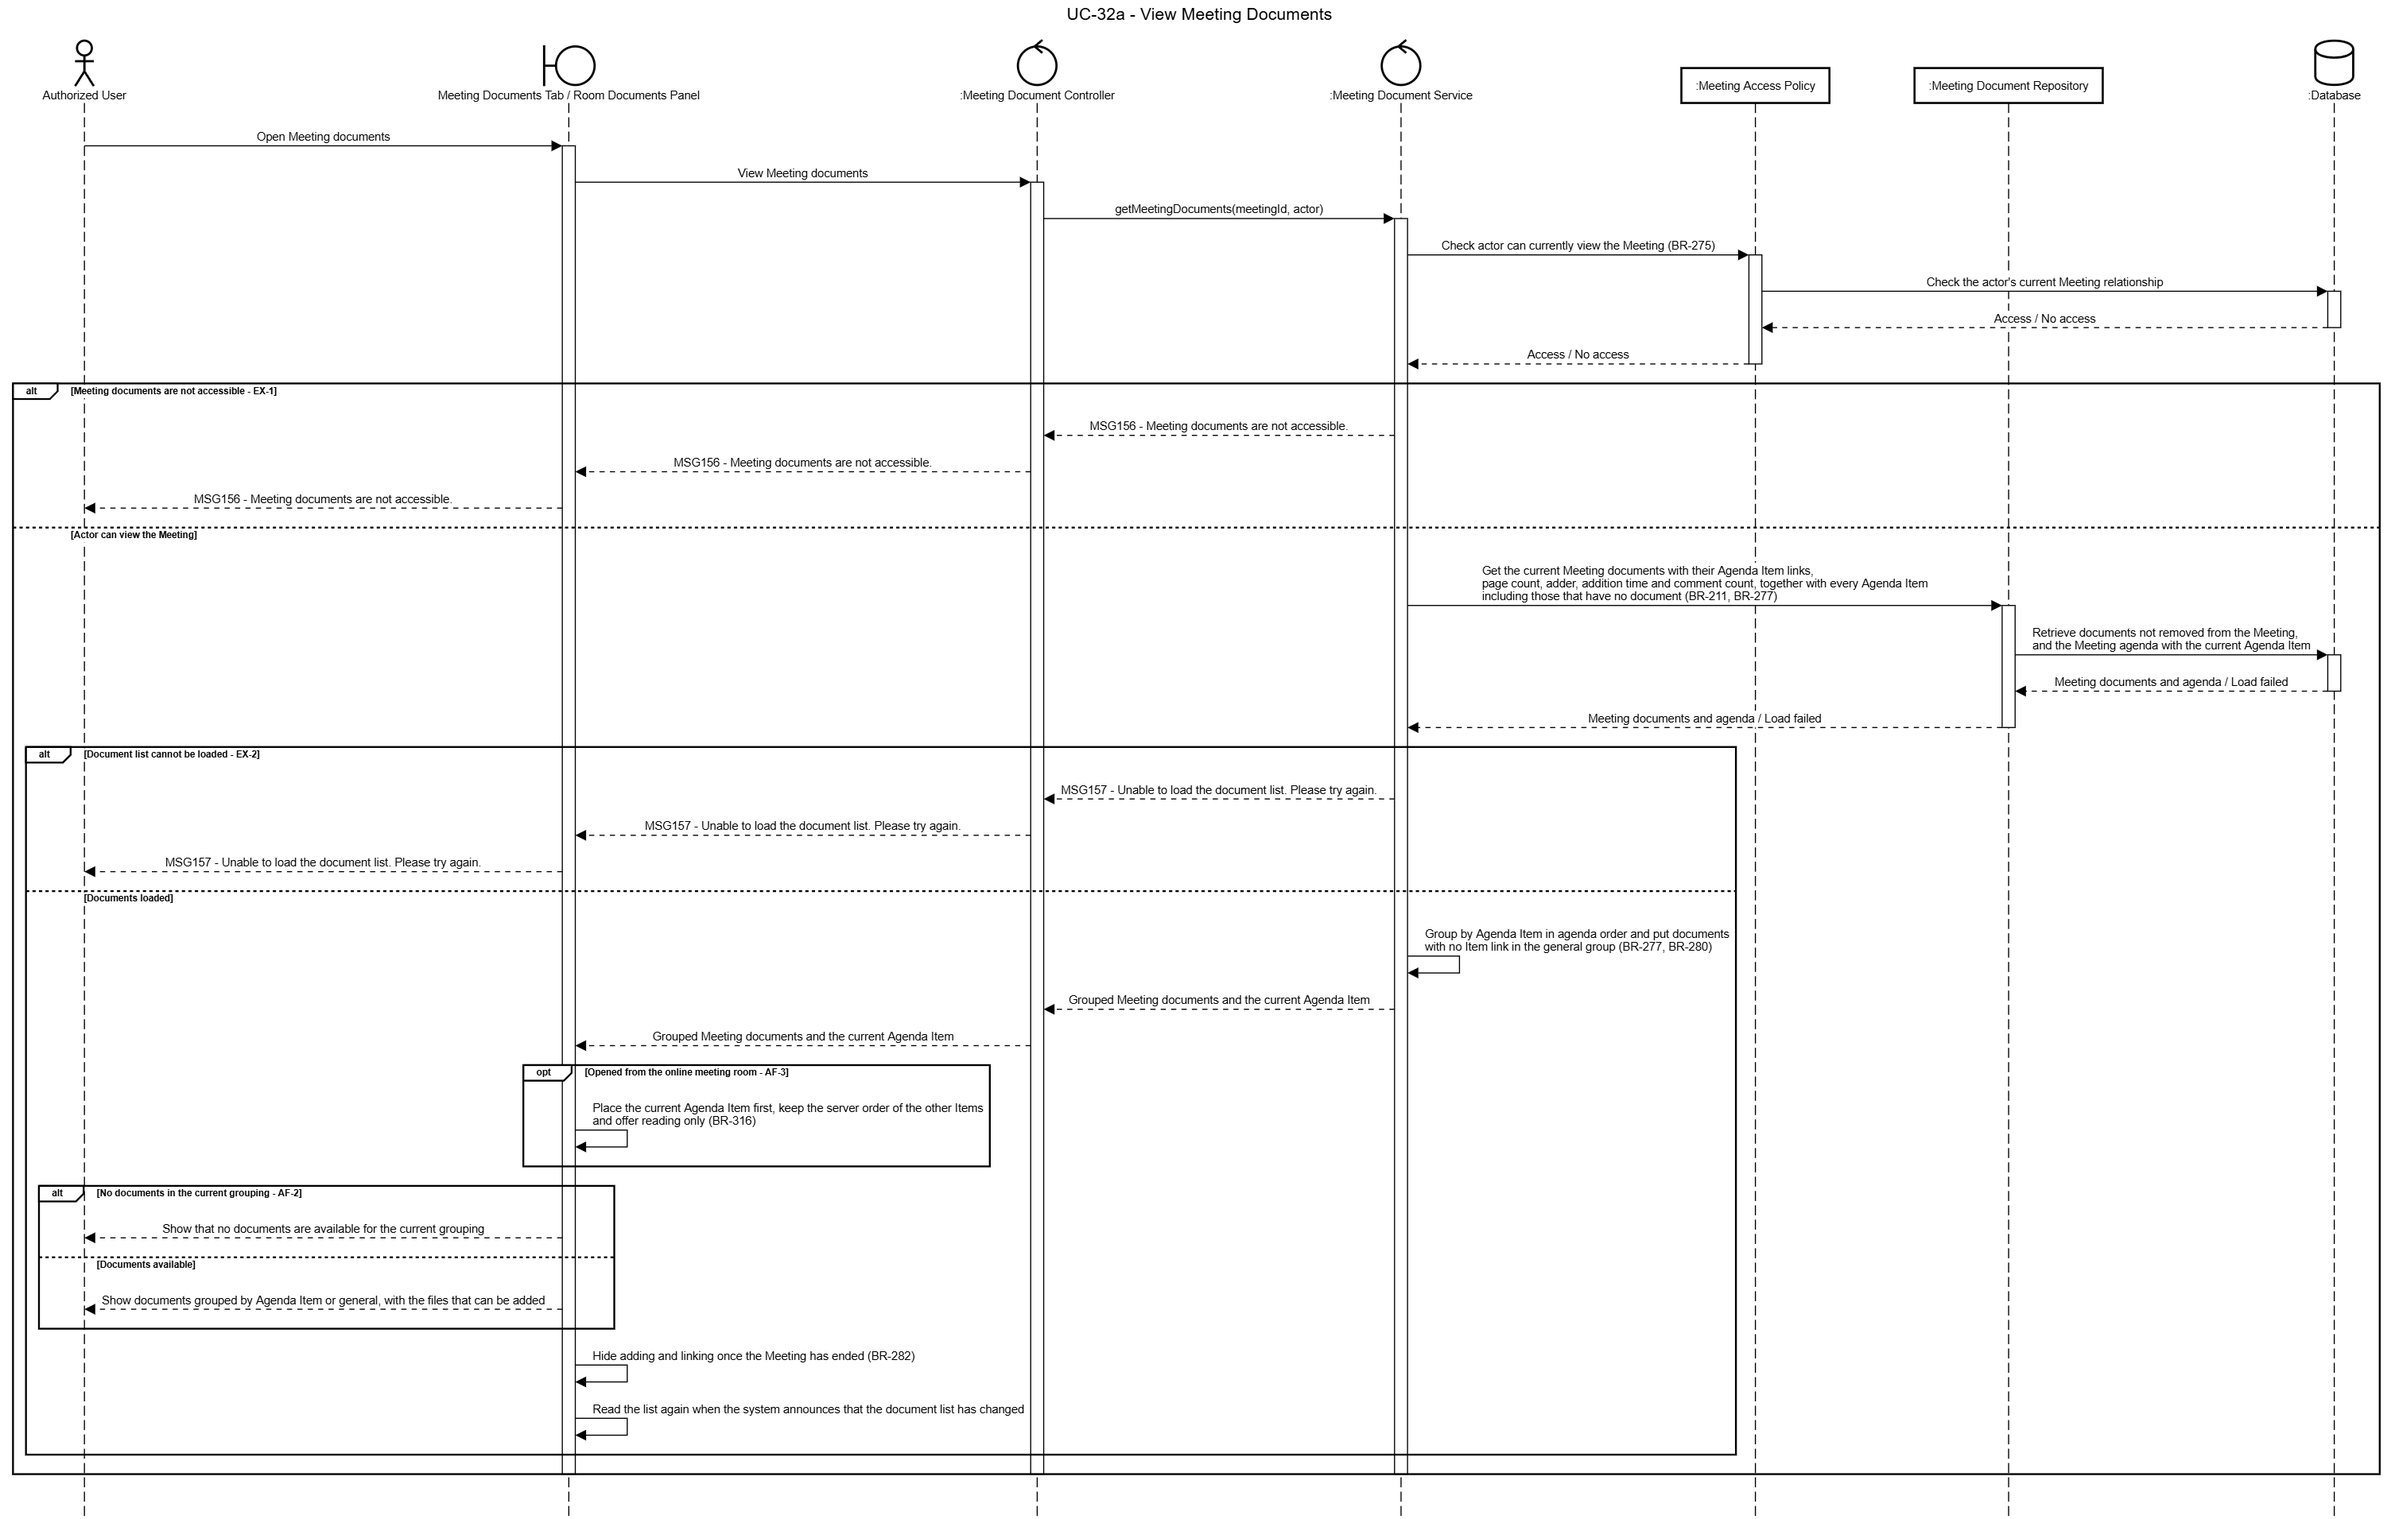
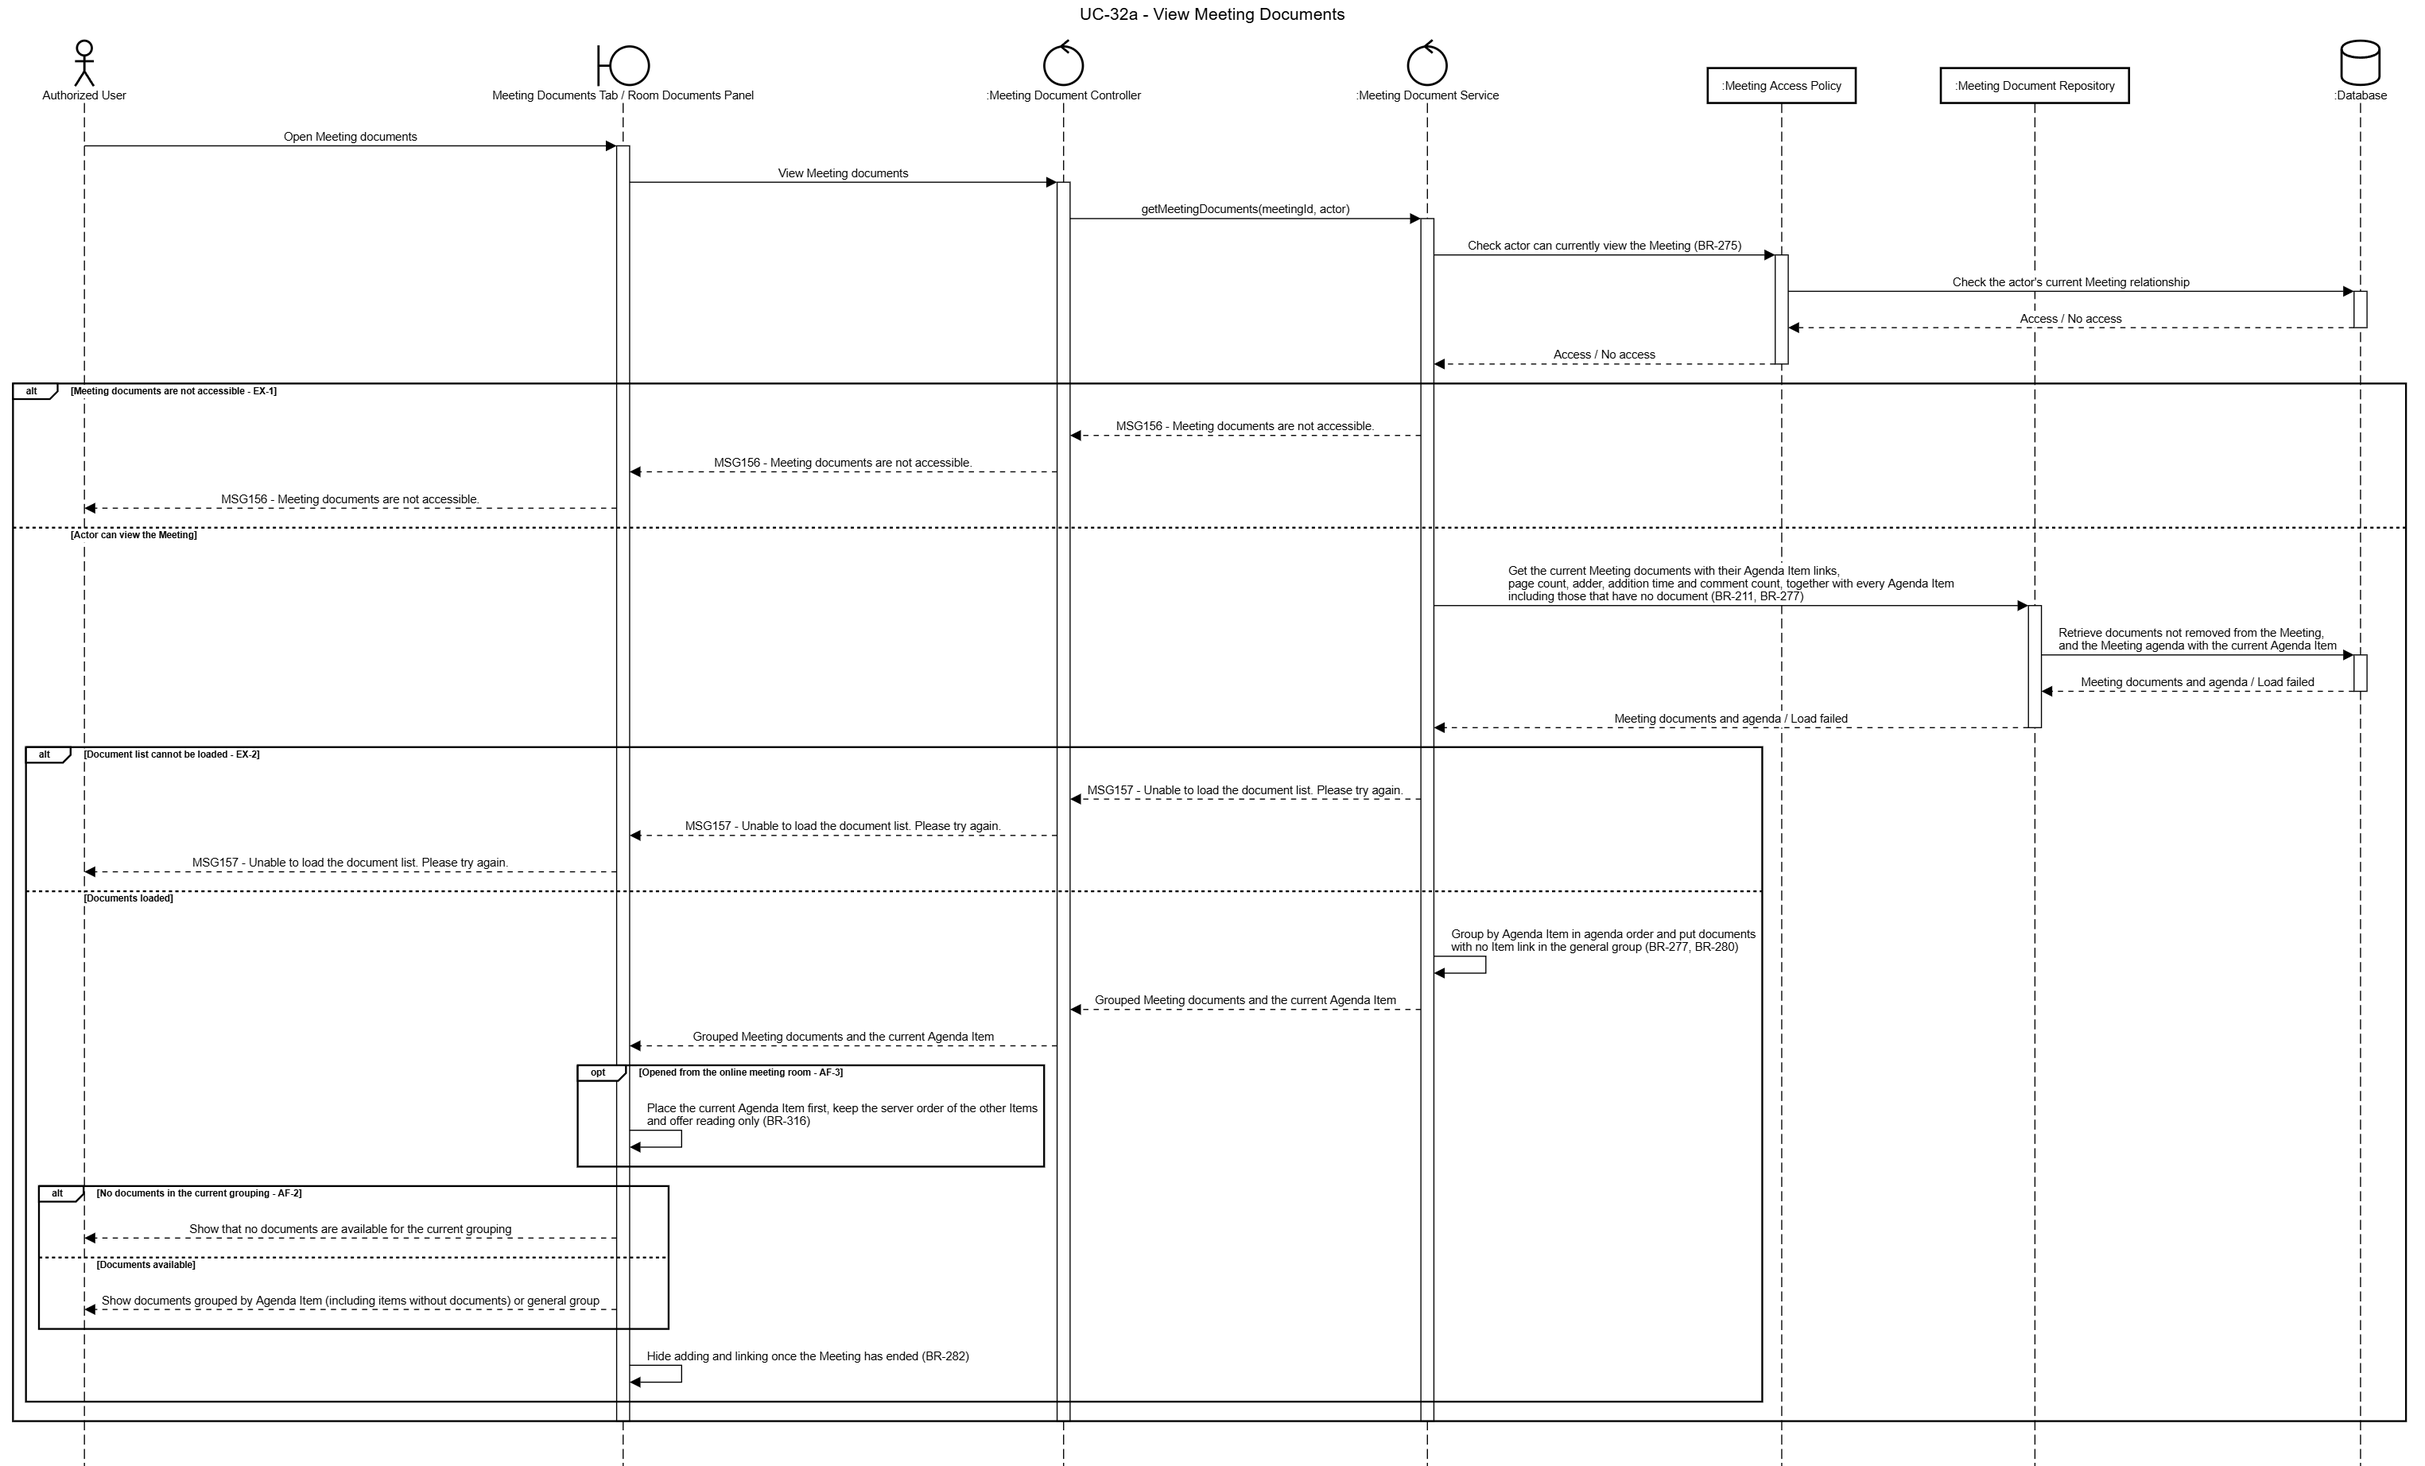
[Docs]: SCRUM-107, SCRUM-21 – sửa theo review: UC-33a tách mỗi mã thông báo một nhánh kèm đủ câu chữ, bỏ sự kiện danh sách đã đổi khỏi sequence UC-33a/UC-32a (README §10), số trang PDF do trình duyệt gửi; README class diagram bỏ câu về lớp không có; note FE-07 ghi FolderRepository đã bỏ

diff --git a/docs/06-sequencediagram/document-management/README.md b/docs/06-sequencediagram/document-management/README.md
@@ -25,7 +25,7 @@ thêm vào cùng UC sau. **Cập nhật 27/10/2026 theo code**: kiểm quyền v
 kích thước khai báo trước khi đọc thân request (EX-8), đọc request rồi kiểm một lượt (đúng một tệp trở lên, ≤ 10 tệp và ≤ 200 MB,
 từng tệp có tên dùng được, đuôi khớp nội dung và ≤ 50 MB — EX-3/EX-8), ghi dòng tệp lưu trữ trước khi đẩy byte,
 đẩy byte lên kho, rồi tìm/tạo thư mục và ghi tài liệu trong **một** transaction có khoá cuộc họp. Trình duyệt gửi kèm số trang của
-từng PDF (`pageCounts`); sau khi lưu xong máy chủ báo "danh sách tài liệu đã đổi" cho người trong cuộc họp (tối đa 2 giây, không chờ).
+từng PDF (`pageCounts`); sau khi lưu xong máy chủ thông báo danh sách tài liệu đã đổi cho người trong cuộc họp qua SignalR (theo §10 README chung, sự kiện SignalR không vẽ vào sequence diagram).
 `:File Storage` là kho đối tượng R2 ([ADR-0024](../../05-decisions/0024-luu-file-tai-lieu-tren-cloudflare-r2.md));
 lỗi ở bước nào thì xoá các tệp đã đẩy để giữ "tất cả hoặc không" (BR-286). Job dọn tệp mồ côi (BR-213) là job nền nên không vẽ
 sequence, theo §10 của [README chung](../README.md).
@@ -33,7 +33,7 @@ sequence, theo §10 của [README chung](../README.md).
 **Tab trong file draw.io gộp chưa cập nhật (27/10/2026).** Ba tab `uc32a_viewmeetingdocuments`,
 `uc32c_previewmeetingdocument`, `uc33a_uploaddocumentstomeeting` vẫn là bản 22–23/10/2026 (dựng bằng bộ chuyển Mermaid của
 draw.io), khác bản as-built ở trên; ảnh trong `drawio-png/` cũng theo bản cũ. Bản đúng của đợt này là `.txt` và `.png` trong
-thư mục này. Dựng lại tab cần chuyển tay từng khung `alt`/`else` nên để lượt sau, cùng lúc với việc bổ sung UC-33a luồng chính
+thư mục này. Khi dựng lại tab, dùng bộ chuyển Mermaid của draw.io như các tab cũ nên để lượt sau, cùng lúc với việc bổ sung UC-33a luồng chính
 (SCRUM-58).
 
 Xác nhận đã đọc chỉ áp dụng cho tài liệu gắn với một biểu quyết của cuộc họp; checkbox chỉ bật khi người dùng đã cuộn

diff --git a/docs/notes/NOTE-ban-giao-fe07-kho-tai-lieu-cho-loc.md b/docs/notes/NOTE-ban-giao-fe07-kho-tai-lieu-cho-loc.md
@@ -244,7 +244,9 @@ skill `drawio-skill`.
    `deleteFolder`, `uploadToLibrary`, `renameDocument`, `moveDocument`, `deleteDocument`.
 2. Control và service mới `FolderController`/`FolderService`, `DocumentController`/`DocumentService`, hàm lấy đúng từ
    message trong sequence bước 1–2.
-3. Mở rộng `FolderRepository` (CRUD, `findSubtree`, tính độ sâu), thêm `DocumentRepository`.
+3. Thêm lại `FolderRepository` (CRUD, `findSubtree`, tính độ sâu) và `DocumentRepository`, cả hai PROPOSED. Từ 27/10/2026
+   diagram không còn `FolderRepository` vì code SCRUM-107 tìm/tạo thư mục cuộc họp ngay trong `MeetingDocumentRepository`
+   (`findUploadFolder`, `addFolder`); nếu Lộc giữ cách đó thì vẽ theo code.
 4. `MeetingDocumentsTab`/`MeetingDocumentController`/`MeetingDocumentService`: thêm `addFromLibrary`, `removeDocument`
    (UC-33a luồng chính, UC-33c); `MeetingDocumentRepository`: `markRemoved`, `existsInMeeting`.
 5. Phía agenda (UC-33b/33d as-built): vẽ `AgendaService.update` và `AgendaRepository.associate` như class ngoài feature,

diff --git a/docs/07-classdiagram/README.md b/docs/07-classdiagram/README.md
@@ -191,9 +191,6 @@ FE-07 cho khớp, giữ nguyên ID, bố cục và các quan hệ khác. Ảnh `
   đúng thứ tự "ghi dòng tệp lưu trữ → đẩy byte → transaction khoá cuộc họp" của ADR-0024 §4.
 - Xoá lớp `FolderRepository` (code dùng chung `MeetingDocumentRepository` cho thư mục) và hai cạnh nối tới nó.
 
-Phần **chưa** khớp code và vẫn giữ nguyên vì thuộc UC khác: `Comment`, `DocumentVersion`, `DocumentShare` và các thao tác
-bình luận (UC-35/SCRUM-23), gắn/bỏ gắn mục nghị sự (UC-33b–33d/SCRUM-58).
-
 ## 7. Rà soát hiện trạng · 14/10/2026
 
 Đã đọc 7 source DCD, 44 sequence `.txt` theo feature, các README tương ứng, UC/BR/Entity Descriptions
